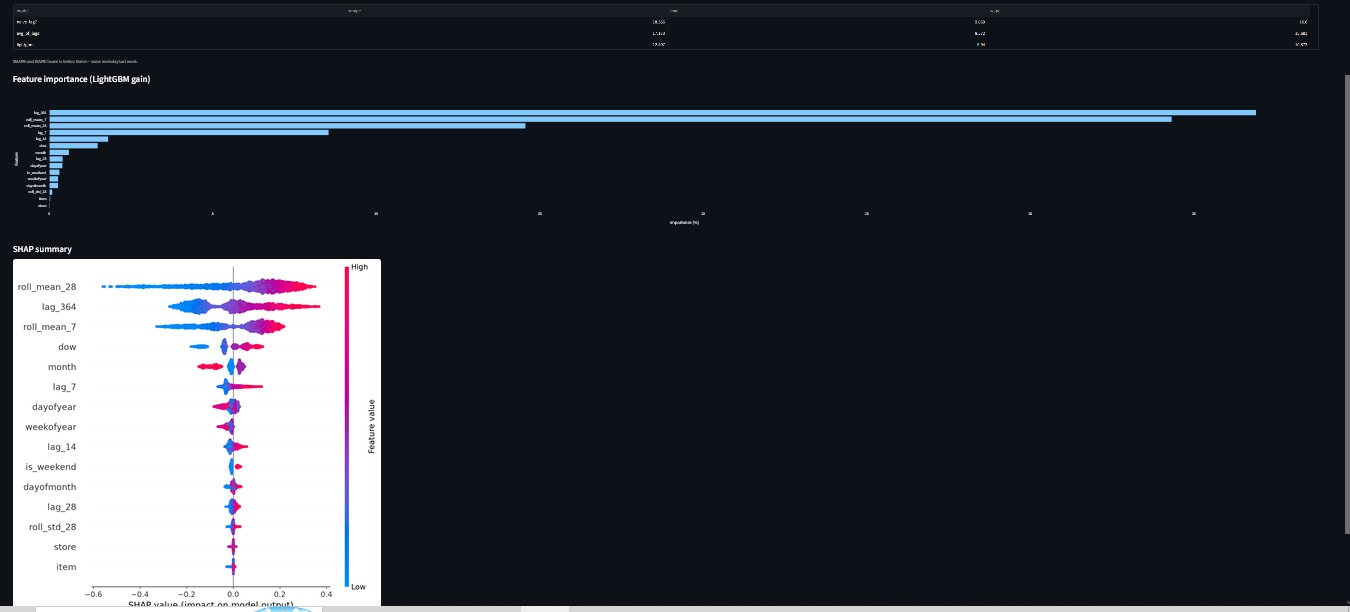
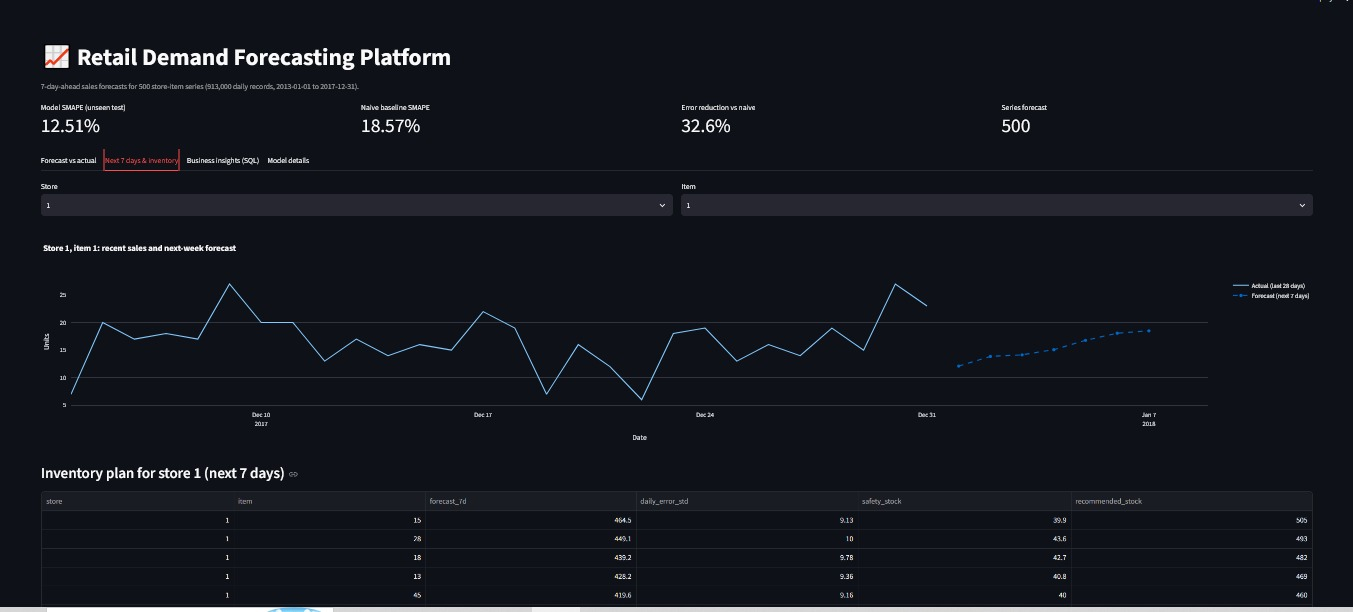
Fix screenshot names

diff --git a/README.md b/README.md
@@ -35,12 +35,13 @@ LightGBM reduces SMAPE by **32.6%** vs the naive baseline.
 
 ## Screenshots
 
-![Forecast vs actual](docs/dashboard_forecast.jpeg)
-![SQL insights](docs/dashboard_sql_insights.jpeg)
-![Model details](docs/dashboard_model_details.jpeg)
+![Forecast vs actual](docs/dashboard_forecast.jpg)
+![SQL insights](docs/dashboard_sql_insights.jpg)
+![Model details](docs/dashboard_model_details.jpg)
 ![MLflow run comparison](docs/mlflow_compare.jpeg)
-![MLflow runs table](docs/mlflow_runs.jpeg)
-![API response](docs/api_forecast2.png)
+![API](docs/api_forecast.png)
+
+## Project structure
 
 ```
 src/    features, SQL loading + analysis, training, SHAP
